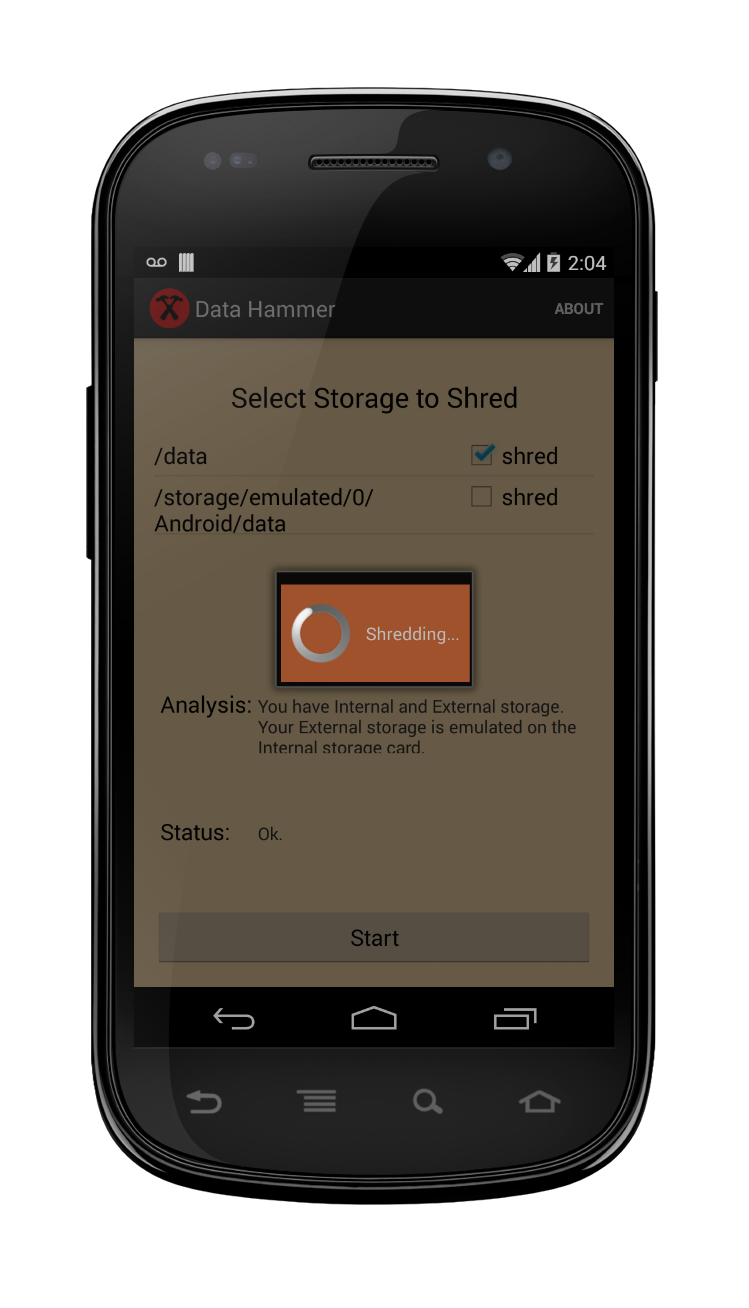
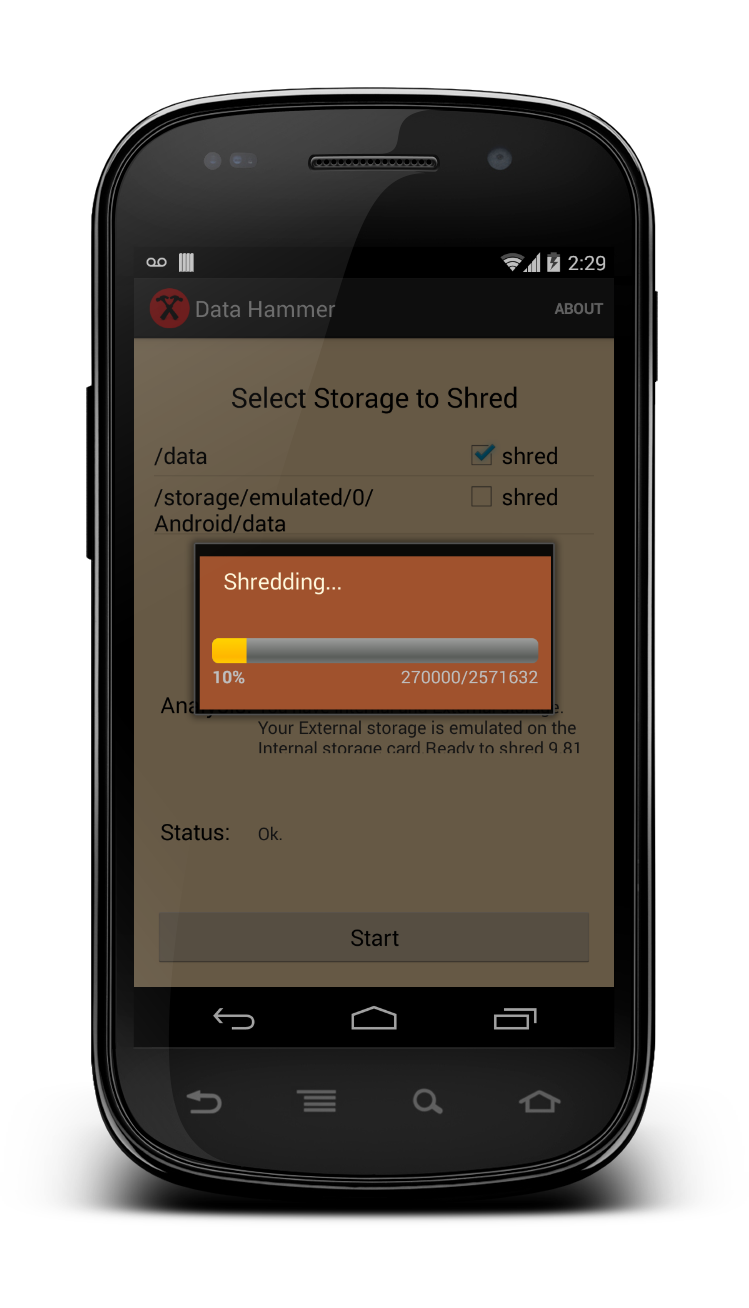
uat corrections

Changed region(s): [[0.2457, 0.3976, 0.7677, 0.581], [0.0921, 0.8563, 0.9212, 0.948], [0.7677, 0.1835, 0.7984, 0.2141]]

diff --git a/app/src/main/java/com/darkoverlordofdata/malleus/DeviceModel.java b/app/src/main/java/com/darkoverlordofdata/malleus/DeviceModel.java
@@ -48,6 +48,9 @@ public class DeviceModel implements Serializable {
     public String totalKb[];       //  readable total bytes available
     public boolean isAvail[];      //  is it available to us?
 
+    public long shredBytes;
+    public int shredBlocks;
+
     /**
      * Model version
      */
@@ -84,6 +87,9 @@ public class DeviceModel implements Serializable {
      * 
      */
     public DeviceModel(Context ctx) {
+
+        if (HammerActivity.BETA)
+            Log.i("DeviceModel", "SDK Version = "+android.os.Build.VERSION.SDK);
 
         boolean emulated = (isHoneyComb) && Environment.isExternalStorageEmulated();
         int count = (isKitKat) ? ctx.getExternalFilesDirs(null).length+1 : 2;
@@ -152,8 +158,12 @@ public class DeviceModel implements Serializable {
 
         }
 
-        if (HammerActivity.BETA)
-            Log.i("DeviceModel", "SDK Version = "+android.os.Build.VERSION.SDK);
+        shredBytes = 0;
+        for (int i=0; i < free.length; i++) {
+            shredBytes += (isAvail[i]) ? free[i] : 0;
+        }
+        shredBlocks = (int) (shredBytes / HammerActivity.PAGE_SIZE);
+
     }
 
     /**
@@ -164,6 +174,9 @@ public class DeviceModel implements Serializable {
      */
     private long getFree(String path) {
         StatFs statFs = new StatFs(path);
+
+        if (HammerActivity.BETA)
+            Log.i("DeviceModel", "Free on "+path+"="+statFs.getBlockSize());
         return (isJellyBean)
                 ? statFs.getAvailableBlocksLong() * statFs.getBlockSizeLong()
                 : (long)statFs.getAvailableBlocks() * (long)statFs.getBlockSize();
@@ -177,13 +190,35 @@ public class DeviceModel implements Serializable {
      */
     private long getTotal(String path) {
         StatFs statFs = new StatFs(path);
+
+        if (HammerActivity.BETA)
+            Log.i("DeviceModel", "Free on "+path+"="+statFs.getBlockSize());
         return (isJellyBean)
                 ? statFs.getBlockCountLong() * statFs.getBlockSizeLong()
                 : (long)statFs.getBlockCount() * (long)statFs.getBlockSize();
     }
 
 
+    /**
+     * Estimated Time to run
+     * best guess is about 2 min per gb.
+     *
+     * @return
+     */
+    public String estimatedTime() {
+        int m = (int)(shredBytes/500000000);
+        return (m <= 1) ? "a minute" : m+" minutes";
+    }
 
+    public String totalSpace() {
+        return humanize(shredBytes);
+    }
+
+    /**
+     * Analyze the volumetrics
+     *
+     * @return
+     */
     public String analysis() {
         String res;
 
@@ -205,8 +240,10 @@ public class DeviceModel implements Serializable {
 
         }
         if (!isAvail[1]) {
-            res += " Your External storage is emulated on the Internal storage card.";
+//            res += " Your External storage is emulated on the Internal storage card.";
+            res += " Skipping emulated drives.";
         }
+        res += "Ready to shred " + totalSpace() + " of storage.\n";
         return res;
     }
     /**
@@ -222,6 +259,7 @@ public class DeviceModel implements Serializable {
 
     /**
      * Humanize the file size
+     * use KB, not KiB
      *
      * @param size
      * @return
@@ -229,12 +267,12 @@ public class DeviceModel implements Serializable {
     private static String humanize (long size)
     {
 
-        long Kb = 1  * 1024;
-        long Mb = Kb * 1024;
-        long Gb = Mb * 1024;
-        long Tb = Gb * 1024;
-        long Pb = Tb * 1024;
-        long Eb = Pb * 1024;
+        long Kb = 1  * 1000;
+        long Mb = Kb * 1000;
+        long Gb = Mb * 1000;
+        long Tb = Gb * 1000;
+        long Pb = Tb * 1000;
+        long Eb = Pb * 1000;
 
         if (size <  Kb)                 return format2(        size     ) + " byte";
         if (size >= Kb && size < Mb)    return format2((double)size / Kb) + " Kb";

diff --git a/app/src/main/java/com/darkoverlordofdata/malleus/HammerActivity.java b/app/src/main/java/com/darkoverlordofdata/malleus/HammerActivity.java
@@ -17,6 +17,7 @@ package com.darkoverlordofdata.malleus;
 import android.app.AlertDialog;
 import android.app.Dialog;
 import android.app.ProgressDialog;
+import android.content.DialogInterface;
 import android.support.v7.app.ActionBarActivity;
 import android.os.Bundle;
 import android.view.Menu;
@@ -34,12 +35,12 @@ import android.widget.TextView;
 public class HammerActivity extends ActionBarActivity {
 
     public static final int         DIALOG_WRITE_PROGRESS   = 0;
-    public static final int         DIALOG_DELETE_PROGRESS  = 1;
 
     /**
      * Configuration
      */
-    public static final int         THROTTLE                = 0;        // limit # of records to process
+    public static final int         THROTTLE                = 0;        // limit # of blocks to process
+    public static final int         PROGRESS                = 10000;    // progress update modulo
     public static final boolean     BETA                    = false;    // log status messages
     public static final boolean     FREE_MEMORY             = true;     // delete the files when we're done
     public static final int         PAGE_SIZE               = 1024 * 4;
@@ -117,21 +118,12 @@ public class HammerActivity extends ActionBarActivity {
         switch (id) {
 
             case DIALOG_WRITE_PROGRESS:
+
                 progress = new ProgressDialog(this, R.style.MalleusDialog);
                 progress.setMessage("Shredding...");
                 progress.setIndeterminate(false);
-                progress.setMax(100);
-                progress.setProgressStyle(ProgressDialog.STYLE_SPINNER);
-                progress.setCancelable(false);
-                progress.show();
-                return progress;
-
-            case DIALOG_DELETE_PROGRESS:
-                progress = new ProgressDialog(this, R.style.MalleusDialog);
-                progress.setMessage("Cleanup...");
-                progress.setIndeterminate(false);
-                progress.setMax(100);
-                progress.setProgressStyle(ProgressDialog.STYLE_SPINNER);
+                progress.setMax(model.shredBlocks);
+                progress.setProgressStyle(ProgressDialog.STYLE_HORIZONTAL);
                 progress.setCancelable(false);
                 progress.show();
                 return progress;
@@ -148,8 +140,34 @@ public class HammerActivity extends ActionBarActivity {
      */
     public void hammerTime(View v) {
 
-        WriteRandomAsync task2 = new WriteRandomAsync().inject(model, view, this);
-        task2.execute();
+        final HammerActivity self = this;
+
+        DialogInterface.OnClickListener dialogClickListener = new DialogInterface.OnClickListener() {
+            @Override
+            public void onClick(DialogInterface dialog, int which) {
+                switch (which){
+                    case DialogInterface.BUTTON_POSITIVE:
+                        //Yes button clicked
+                        WriteRandomAsync task = new WriteRandomAsync().inject(model, view, self);
+                        task.execute();
+                        break;
+
+                    case DialogInterface.BUTTON_NEGATIVE:
+                        //No button clicked
+                        break;
+                }
+            }
+        };
+
+        String message =
+                "It will take about "+model.estimatedTime()+
+                " to shred "+model.totalSpace()+
+                ". Do you want to continue?";
+
+        AlertDialog.Builder builder = new AlertDialog.Builder(this);
+        builder.setMessage(message).setPositiveButton("Yes", dialogClickListener)
+                .setNegativeButton("No", dialogClickListener).show();
+
     }
 
     protected void showAbout() {

diff --git a/app/src/main/java/com/darkoverlordofdata/malleus/WriteRandomAsync.java b/app/src/main/java/com/darkoverlordofdata/malleus/WriteRandomAsync.java
@@ -224,10 +224,13 @@ public class WriteRandomAsync extends AsyncTask<Void, Integer, String> {
      * @param progress
      */
     protected void onProgressUpdate(Integer... progress) {
-        ctrl.progress.setProgress(progress[0]);
-        if (HammerActivity.BETA)
-            if ((progress[0] % 10000) == 0)
+
+        if ((progress[0] % HammerActivity.PROGRESS) == 0) {
+            ctrl.progress.setProgress(progress[0]);
+            if (HammerActivity.BETA)
                 Log.i("onProgressUpdate", ""+progress[0]);
+        }
+
     }
 
     /**

diff --git a/changes.md b/changes.md
@@ -1,0 +1,26 @@
+# Changes
+
+## 0.1
+alpha release
+
+## 0.2
+performance tuning
+
+## 0.3
+add branding
+ui style
+
+## 0.4
+notify when done
+add artwork
+
+## 0.5
+fix free space calculation
+
+## 0.6
+sync version numbers
+
+## 0.7
+UAT change analysis message to easier to understand "Skipping emulated drives"
+UAT add estimated time to yes/no continue message
+UAT fix launcher icon size - template had wrong sizes

diff --git a/features.md b/features.md
@@ -1,0 +1,8 @@
+message - duplicate drive allocation
+yes/no - add time warning
+make icon a little bigger
+
+galaxyS4 - 23:44
+nexus4  - 11:34
+
+galaxyS4 4.3 JellyBean
